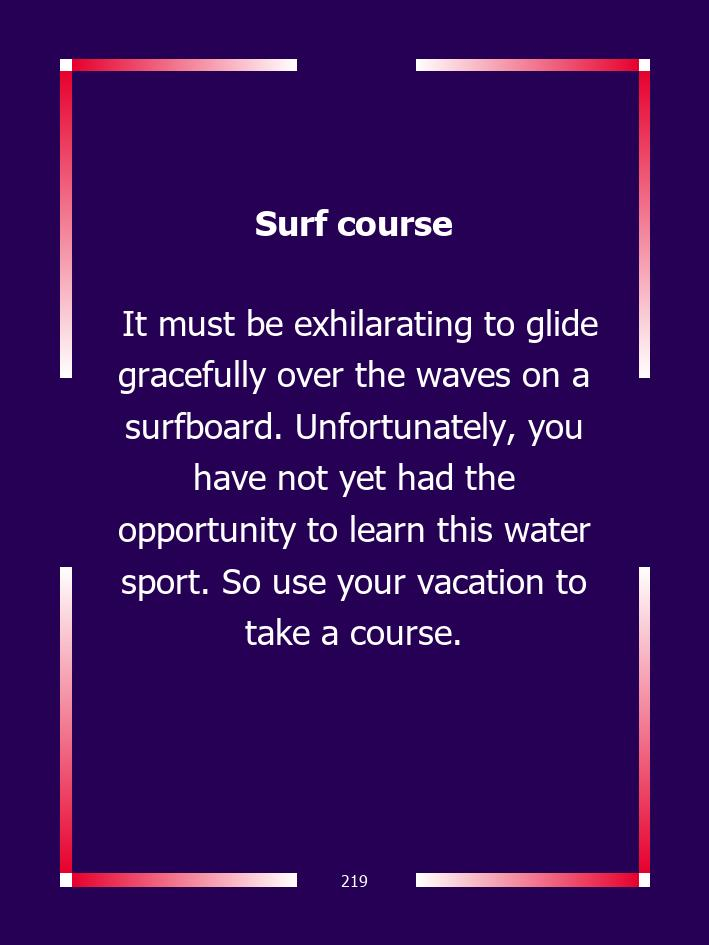
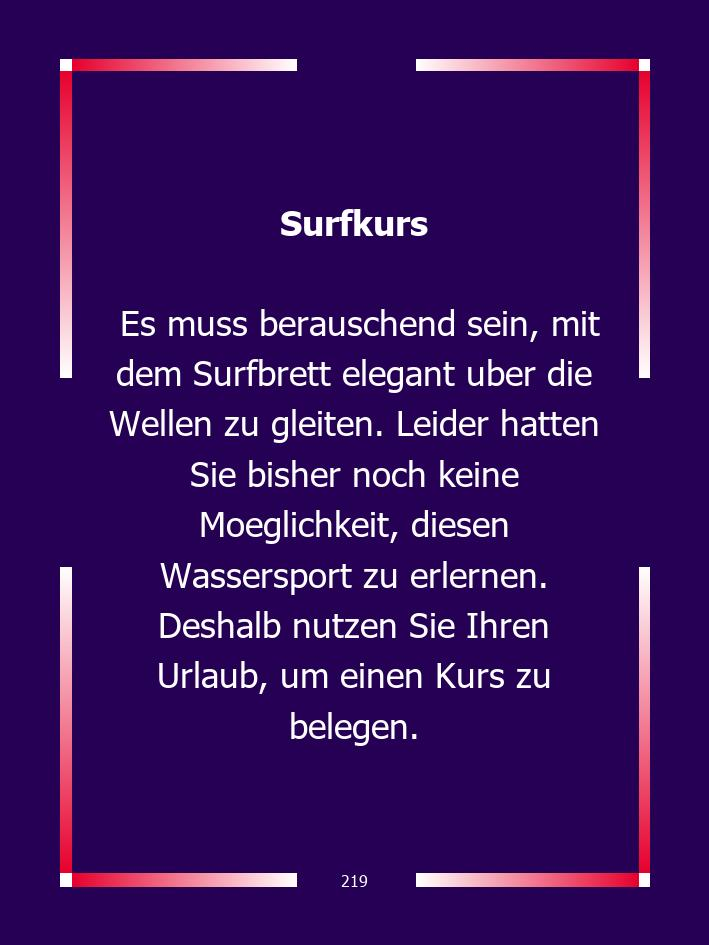
feat: generate back faces

Changed region(s): [[0.1551, 0.3069, 0.8688, 0.7979], [0.3413, 0.2148, 0.6516, 0.2762]]

diff --git a/card-generation/generator.py b/card-generation/generator.py
@@ -1,3 +1,4 @@
+import json
 import os
 from os import path
 from PIL import Image
@@ -13,6 +14,14 @@ IMAGE_PATH = '../images/'
 FRONT_SUFFIX = '_front'
 BACK_SUFFIX = '_back'
 LOCALE_DIR = Path(__file__).resolve().parent.parent / 'locales'
+FONT = 'tahoma.ttf'
+FONT_BD = 'tahomabd.ttf'
+RED_MARKER = Image.open(IMAGE_PATH + 'red.png')
+BLUE_MARKER = Image.open(IMAGE_PATH + 'blue.png')
+GREEN_MARKER = Image.open(IMAGE_PATH + 'green.png')
+YELLOW_MARKER = Image.open(IMAGE_PATH + 'yellow.png')
+GREY_MARKER = Image.open(IMAGE_PATH + 'grey.png')
+PURPLE_MARKER = Image.open(IMAGE_PATH + 'purple.png')
 
 # load german by default
 t = gettext.translation('base', localedir=LOCALE_DIR,
@@ -23,18 +32,18 @@ _ = t.gettext
 
 def generate_images():
 
+    cards = load_cards()
+
     for language in LANGUAGES:
         # load language files
         t = gettext.translation('base', localedir=LOCALE_DIR,
                                 languages=[language], fallback=True)
         t.install()
 
-        # load front background image
-        front_image = Image.open(IMAGE_PATH + 'card_front.jpg')
-        generate_all_cards(language, front_image, t.gettext)
+        generate_all_cards(language, t.gettext, cards)
 
 
-def generate_all_cards(language: str, front_image: Image, fn_gettext):
+def generate_all_cards(language: str, fn_gettext, cards: list):
 
     _ = fn_gettext
     # create target language folder
@@ -42,28 +51,38 @@ def generate_all_cards(language: str, front_image: Image, fn_gettext):
         print('creating ' + language.upper() + ' folder')
         os.mkdir(IMAGE_PATH + language)
 
-    # add text to card face
+    for card in cards:
+        generate_front_card_face(card, language)
+        generate_back_card_face(card, language)
 
+
+def generate_front_card_face(card: dict, language):
+
+    # load front background image
+    front_image = Image.open(IMAGE_PATH + 'card_front.jpg')
+
+    # add text to card face
     draw = ImageDraw.Draw(front_image)
     image_width = front_image.width
     image_height = front_image.height
 
     # show card id
-    font = ImageFont.truetype("tahoma.ttf", 16)
-    length = draw.textlength('219', font)
-    draw.text(((image_width - length)/2, image_height - 75), "219", (255, 255, 255),
+    font = ImageFont.truetype(FONT, 16)
+    length = draw.textlength(card['id'], font)
+    draw.text(((image_width - length)/2, image_height - 75), card['id'], (255, 255, 255),
               font=font, align='center')
 
     # show title
-    font = ImageFont.truetype("tahomabd.ttf", 35)
-    length = draw.textlength(_('card_219_title'), font)
-    draw.text(((image_width - length)/2, 200), _('card_219_title'), (255, 255, 255),
+    font = ImageFont.truetype(FONT_BD, 35)
+    font.size = 35
+    length = draw.textlength(_('card_' + card['id']+'_title'), font)
+    draw.text(((image_width - length)/2, 200), _('card_' + card['id']+'_title'), (255, 255, 255),
               font=font, align='center')
 
     # show scenario description
-    font = ImageFont.truetype("tahoma.ttf", 35)
+    font = ImageFont.truetype(FONT, 35)
     utils.text_box(
-        _('card_219_desc'),
+        _('card_' + card['id']+'_desc'),
         draw,
         font,
         (110, 300, image_width - 220, image_height),
@@ -72,14 +91,55 @@ def generate_all_cards(language: str, front_image: Image, fn_gettext):
     )
 
     # save image in language folder
-    front_image.save(IMAGE_PATH + language + '/' + card_name('219', True))
+    front_image.save(IMAGE_PATH + language + '/' + card_name(card['id'], True))
 
-# generate card file name
+
+def generate_back_card_face(card: dict, language):
+
+    # load front background image
+    back_image = Image.open(IMAGE_PATH + 'card_back.jpg')
+
+    back_image.putalpha(255)
+    if card['red']:
+        back_image.paste(RED_MARKER, (0, 0), RED_MARKER)
+    if card['blue']:
+        back_image.paste(BLUE_MARKER, (0, 0), BLUE_MARKER)
+    if card['yellow']:
+        back_image.paste(YELLOW_MARKER, (0, 0), YELLOW_MARKER)
+    if card['green']:
+        back_image.paste(GREEN_MARKER, (0, 0), GREEN_MARKER)
+    if card['grey']:
+        back_image.paste(GREY_MARKER, (0, 0), GREY_MARKER)
+    if card['purple']:
+        back_image.paste(PURPLE_MARKER, (0, 0), PURPLE_MARKER)
+
+    # add text to card face
+    draw = ImageDraw.Draw(back_image)
+
+    # show card id
+    font = ImageFont.truetype(FONT, 16)
+    length = draw.textlength(card['id'], font)
+    draw.text(((back_image.width - length)/2, 100), card['id'], (255, 255, 255),
+              font=font, align='center')
+
+    # save image in language folder
+    final_image = Image.new("RGB", back_image.size, (255, 255, 255))
+    final_image.paste(back_image, mask=back_image.split()
+                      [3])  # 3 is the alpha channel
+    final_image.save(IMAGE_PATH + language + '/' +
+                     card_name(card['id'], False))
 
 
 def card_name(id, front: bool):
     card_name = (BACK_SUFFIX, FRONT_SUFFIX)[front]
     return id + card_name + '.jpg'
+
+
+def load_cards():
+    f = open('cards.json')
+    cards = json.load(f)
+    f.close()
+    return cards
 
 
 generate_images()
